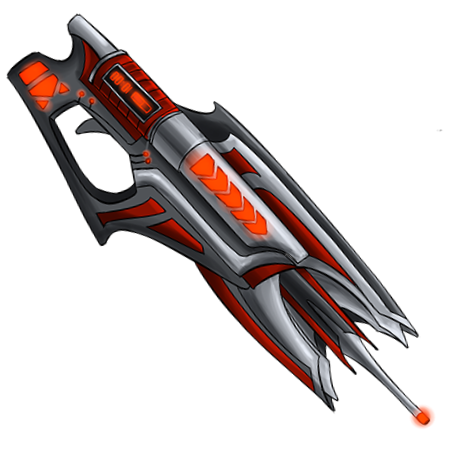
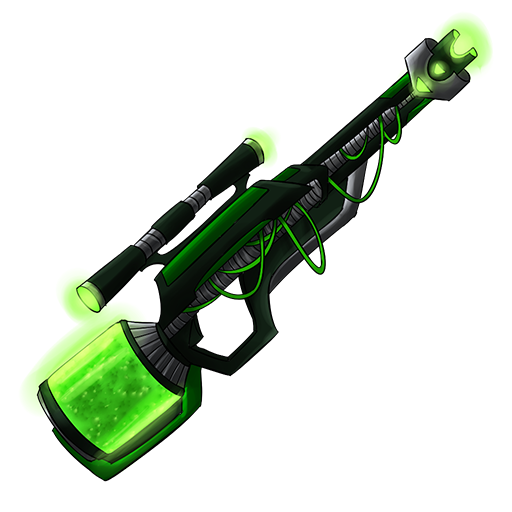
gun's sprite is now changing!

diff --git a/classes/Player.js b/classes/Player.js
@@ -8,6 +8,7 @@ class Player extends Sprite {
     gunImageSrc,
     animations,
     boxes,
+    guns
   }) {
     super({ position, imageSrc, frameRate, enlargementRatio, frameBuffer });
     this.velocity = { x: 0, y: 0 };
@@ -25,6 +26,9 @@ class Player extends Sprite {
     this.gunAngle = 0;
 
     this.bullets = [];
+    this.guns = guns;
+    this.currentGun = 0;
+
     this.boxes = boxes;
 
     this.hitpoints = 100;
@@ -128,22 +132,56 @@ class Player extends Sprite {
     trajectory.draw();
   }
 
-  shootBullet() {
-    const bullet = new Bullet({
+  drawGun(){
+    this.guns[this.currentGun].draw(this);
+  }
+  shootBullet(){
+    const currentGun = this.guns[this.currentGun];
+    const bullet = new Bullet ({
       position: {
         x: this.actualBox.position.x + this.actualBox.width / 2,
         y: this.actualBox.position.y + this.actualBox.height / 2,
       },
-      velocity: {
+      velocity:{
         x: Math.cos(this.gunAngle) * 20,
         y: Math.sin(this.gunAngle) * 20,
       },
+      damage: currentGun.damage,
       bulletGravity: 0.65, //dont change this gravity value:(
       boxes: this.boxes,
       bullets: this.bullets,
-    });
+    })
     this.bullets.push(bullet);
+
+    // this.velocity.x -= Math.cos(this.gunAngle) * currentGun.recoil;
+    // this.velocity.y -= Math.sin(this.gunAngle) * currentGun.recoil;
+
   }
+
+  switchGun(index){1
+    if(this.currentGun === index) return;
+    if(index>=0 && index < this.guns.length){
+      this.currentGun = index;
+    }
+
+  }
+
+  // shootBullet() {
+  //   const bullet = new Bullet({
+  //     position: {
+  //       x: this.actualBox.position.x + this.actualBox.width / 2,
+  //       y: this.actualBox.position.y + this.actualBox.height / 2,
+  //     },
+  //     velocity: {
+  //       x: Math.cos(this.gunAngle) * 20,
+  //       y: Math.sin(this.gunAngle) * 20,
+  //     },
+  //     bulletGravity: 0.65, //dont change this gravity value:(
+  //     boxes: this.boxes,
+  //     bullets: this.bullets,
+  //   });
+  //   this.bullets.push(bullet);
+  // }
 
   playerGettingDamage(damage) {
     this.hitpoints -= damage;
@@ -196,7 +234,6 @@ class Player extends Sprite {
     super.update();
     this.updateActualBox();
     this.updateTrajectory();
-    // this.drawTrajectories();
     this.draw();
     this.drawGun();
     this.hitPointsBar.update(this.hitpoints);
@@ -207,7 +244,6 @@ class Player extends Sprite {
         this.bullets.splice(index, 1);
       }
     });
-    //here againn to put some visually pleasing looks the dots will be ath the back then the player then the gun in the very front
 
     this.velocity.y += gravity;
 

diff --git a/script.js b/script.js
@@ -82,6 +82,34 @@ const player = new Player({
   enlargementRatio: 2.7,
   frameBuffer: 6,
   gunImageSrc: "./assets/guns/6.png",
+  guns: [
+    new Gun({
+      name: "Normalgun",
+      bulletVelocity: 20,
+      fireRate: 5,
+      damage: 10,
+      recoil: 0,
+      imageSrc: "./assets/guns/Normalgun.png",
+    }),
+    new Gun({
+      //low range  but shoots 3 bullets moderate recoil
+      name: "Shotgun",
+      bulletVelocity: 15,
+      fireRate: 2,
+      damage: 25,
+      recoil: 0,
+      imageSrc: "./assets/guns/Shotgun.png",
+    }),
+    new Gun({
+      //high range high damage high recoil
+      name: "Rifle",
+      bulletVelocity: 40,
+      fireRate: 1,
+      damage: 50,
+      recoil: 0,
+      imageSrc: "./assets/guns/Rifle.png",
+    }),
+  ],
   animations: {
     Idle: {
       imageSrc: "./assets/hero1/Biker_idle.png",
@@ -107,33 +135,6 @@ const player = new Player({
   boxes,
 });
 
-document.addEventListener("keydown", (e) => {
-  switch (e.key) {
-    case "w":
-      keys.w.pressed = true;
-      break;
-    case "a":
-      keys.a.pressed = true;
-      break;
-    case "d":
-      keys.d.pressed = true;
-      break;
-  }
-});
-
-document.addEventListener("keyup", (e) => {
-  switch (e.key) {
-    case "w":
-      keys.w.pressed = false;
-      break;
-    case "a":
-      keys.a.pressed = false;
-      break;
-    case "d":
-      keys.d.pressed = false;
-      break;
-  }
-});
 
 function resolveVerticalCollision(player, platform) {
   const playerBottom = player.actualBox.position.y + player.actualBox.height;
@@ -259,7 +260,7 @@ function mainGameLoop() {
   player.update();
   // bat.update();
 
-  gameLogic.update();
+  // gameLogic.update();
   boxes.forEach((box) => {
     box.draw();
     collisionBetweenPlayerAndPlatform(player, box);

diff --git a/classes/Gun.js b/classes/Gun.js
@@ -1,0 +1,31 @@
+class Gun {
+  constructor({ name, bulletVelocity, fireRate, damage, imageSrc }) {
+    this.name = name;
+    this.bulletVelocity = bulletVelocity;
+    this.fireRate = fireRate;
+    this.damage = damage;
+    this.imageSrc = imageSrc;
+    this.image = new Image();
+    this.image.src = this.imageSrc;
+  }
+  draw(player) {
+    ctx.save();
+    ctx.translate(
+      player.actualBox.position.x + player.actualBox.width / 2,
+      player.actualBox.position.y + player.actualBox.height / 2
+    );
+    ctx.rotate(player.gunAngle - Math.PI / 4 + Math.PI / 120);
+    const scaleRatio = 0.2;
+    ctx.drawImage(
+      this.image,
+      0,
+      0,
+      this.image.width * scaleRatio,
+      this.image.height * scaleRatio
+    );
+
+    ctx.fillStyle = "rgba(255, 255, 255,.3)";
+    ctx.fillRect(0,0,this.image.width * scaleRatio,this.image.height * scaleRatio)
+    ctx.restore();
+  }
+}

diff --git a/eventListeners.js b/eventListeners.js
@@ -1,0 +1,41 @@
+document.addEventListener("keydown", (e) => {
+  switch (e.key) {
+    case "w":
+      keys.w.pressed = true;
+      break;
+    case "a":
+      keys.a.pressed = true;
+      break;
+    case "d":
+      keys.d.pressed = true;
+      break;
+  }
+});
+
+document.addEventListener("keyup", (e) => {
+  switch (e.key) {
+    case "w":
+      keys.w.pressed = false;
+      break;
+    case "a":
+      keys.a.pressed = false;
+      break;
+    case "d":
+      keys.d.pressed = false;
+      break;
+  }
+});
+
+document.addEventListener("keydown", (e) => {
+  switch (e.key) {
+    case "1":
+      player.switchGun(0);
+      break;
+    case "2":
+      player.switchGun(1);
+      break;
+    case "3":
+      player.switchGun(2);
+      break;
+  }
+});

diff --git a/index.html b/index.html
@@ -43,6 +43,7 @@
     </div>
 
     <script src="classes/Bullet.js"></script>
+    <script src="classes/Gun.js"></script>
     <script src="classes/HitpointsBar.js"></script>
     <script src="classes/Trajectory.js"></script>
     <script src="classes/Sprite.js"></script>
@@ -54,6 +55,7 @@
     <script src="classes/ZombieBasic.js"></script>
     <script src="classes/GameLogic.js"></script>
     <script src="script.js"></script>
+    <script src="eventListeners.js"></script>
 </body>
 
 </html>

diff --git a/classes/Bullet.js b/classes/Bullet.js
@@ -1,12 +1,12 @@
 class Bullet {
-    constructor({ position, velocity, bulletGravity,boxes,bullets }) {
+    constructor({ position, velocity, bulletGravity,boxes,bullets,damage = 10 }) {
       this.position = position;
       this.velocity = velocity;
       this.radius = 9;
       this.bulletGravity = bulletGravity;
       this.boxes = boxes;
       this.bullets = bullets;
-      this.damage = 10
+      this.damage = damage;
       
     }
   

diff --git a/classes/GameLogic.js b/classes/GameLogic.js
@@ -239,7 +239,7 @@ class GameLogic {
               this.timeNowForBoxZombie - this.boxes[i].lastHitByZombieToBox >
               this.lastHitByZombieToBoxGap
             ) {
-              console.log(zombie.isAttacking);
+              // console.log(zombie.isAttacking);
               this.boxes[i].takeDamageBox(10);
               this.boxes[i].lastHitByZombieToBox = timeNow;
               if (this.boxes[i].boxIsDestroyed()) {

diff --git a/classes/Box.js b/classes/Box.js
@@ -36,7 +36,7 @@ class Box {
 
   takeDamageBox(damage) {
     this.hitpoints -= damage;
-    console.log(this.hitpoints);
+    // console.log(this.hitpoints);
   }
 
   boxIsDestroyed() {
